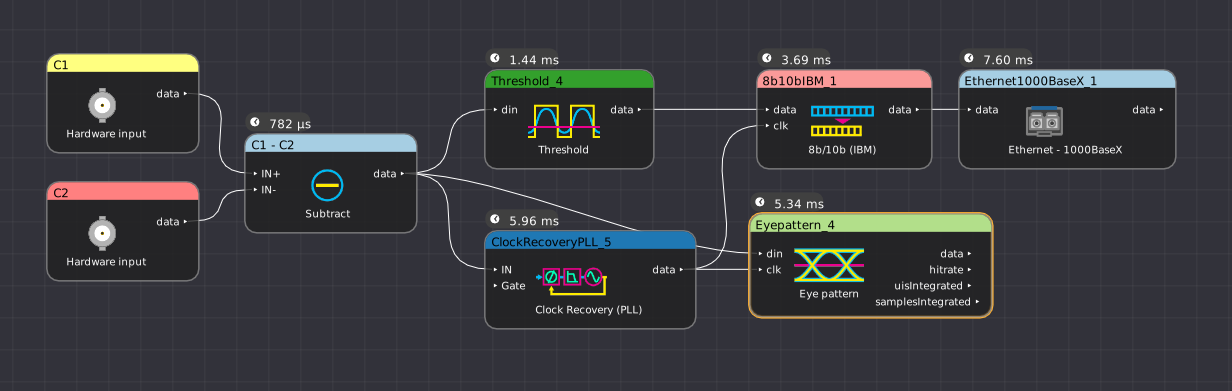
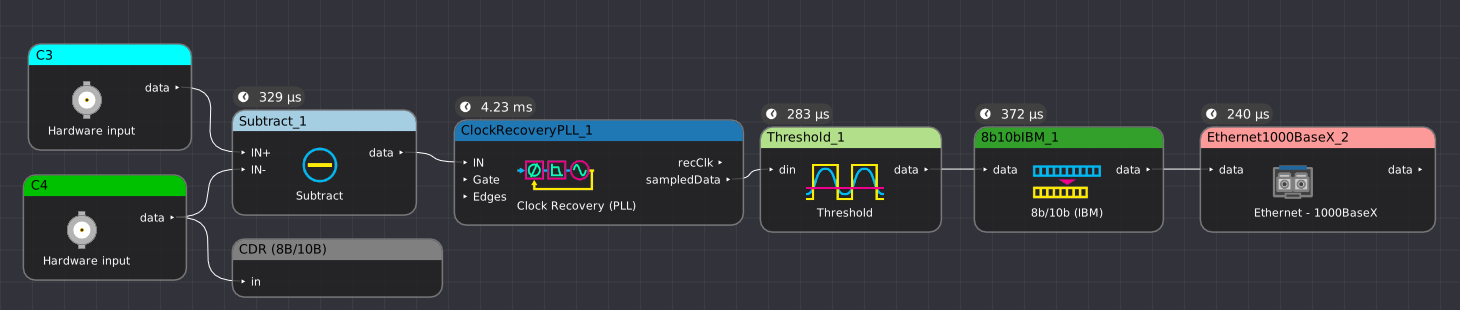
Documented 10Gbase-R filter

diff --git a/section-decodes.tex b/section-decodes.tex
@@ -3501,6 +3501,22 @@ Instead, simply pass the sampledData output of the \hyperref[filter:cdrpll]{Cloc
 
 Decodes the 1000base-X Ethernet PCS as specified in IEEE 802.3-2018 clause 36.
 
+\begin{figure}[h]
+\centering
+\bigimage{ng-images/filters/1000basex.png}
+\caption{Example showing decode of a 1000baseX signal}
+\label{filter_1000basex}
+\end{figure}
+
+\begin{figure}[h]
+\centering
+\bigimage{ng-images/filters/graph-1000basex.png}
+\caption{Example filter graph showing usage of 1000baseX decode}
+\label{filter_graph_1000basex}
+\end{figure}
+
+\FloatBarrier
+
 \begin{tabularx}{16cm}{llX}
 \thickhline
 \textbf{Signal name} & \textbf{Type} & \textbf{Description} \\
@@ -3550,7 +3566,37 @@ TODO: Document protocol analyzer output
 
 Decodes the 10Gbase-R Ethernet PCS as specified in IEEE 802.3-2018 clause 49.
 
-(This filter description is a stub and will be expanded in the future)
+\begin{figure}[h]
+\centering
+\bigimage{ng-images/filters/10gbaser.png}
+\caption{Example showing decode of a 10Gbase-R signal}
+\label{filter_10gbaser}
+\end{figure}
+
+\begin{figure}[h]
+\centering
+\bigimage{ng-images/filters/graph-10gbaser.png}
+\caption{Example filter graph showing usage of 10Gbase-R decode}
+\label{filter_graph_10gbaser}
+\end{figure}
+
+\FloatBarrier
+
+\begin{tabularx}{16cm}{llX}
+\thickhline
+\textbf{Signal name} & \textbf{Type} & \textbf{Description} \\
+\thickhline
+data & 64b/66b & Output of \hyperref[proto:64b66b]{64b/66b protocol decode}\\
+\thickhline
+\end{tabularx}
+
+\subsection{Parameters}
+
+This filter takes no parameters.
+
+\subsection{Output Signal}
+
+The 10Gbase-R filter outputs a series of Ethernet frame segment objects.
 
 %%%%%%%%%%%%%%%%%%%%%%%%%%%%%%%%%%%%%%%%%%%%%%%%%%%%%%%%%%%%%%%%%%%%%%%%%%%%%%%%%%%%%%%%%%%%%%%%%%%%%%%%%%%%%%%%%%%%%%%%
 %\pagebreak
